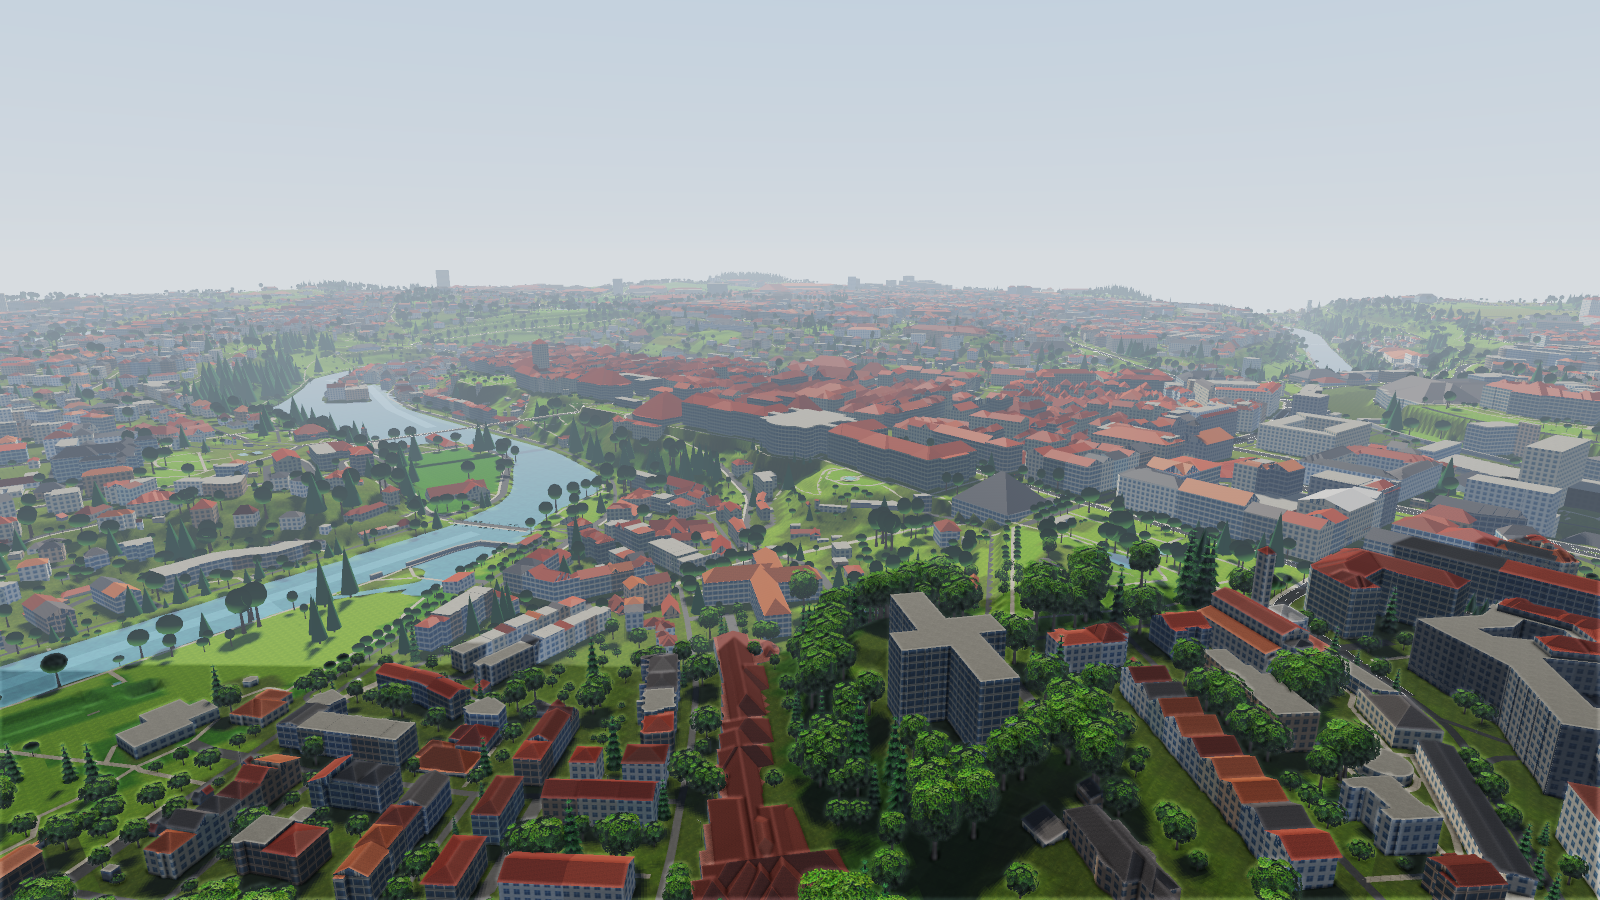
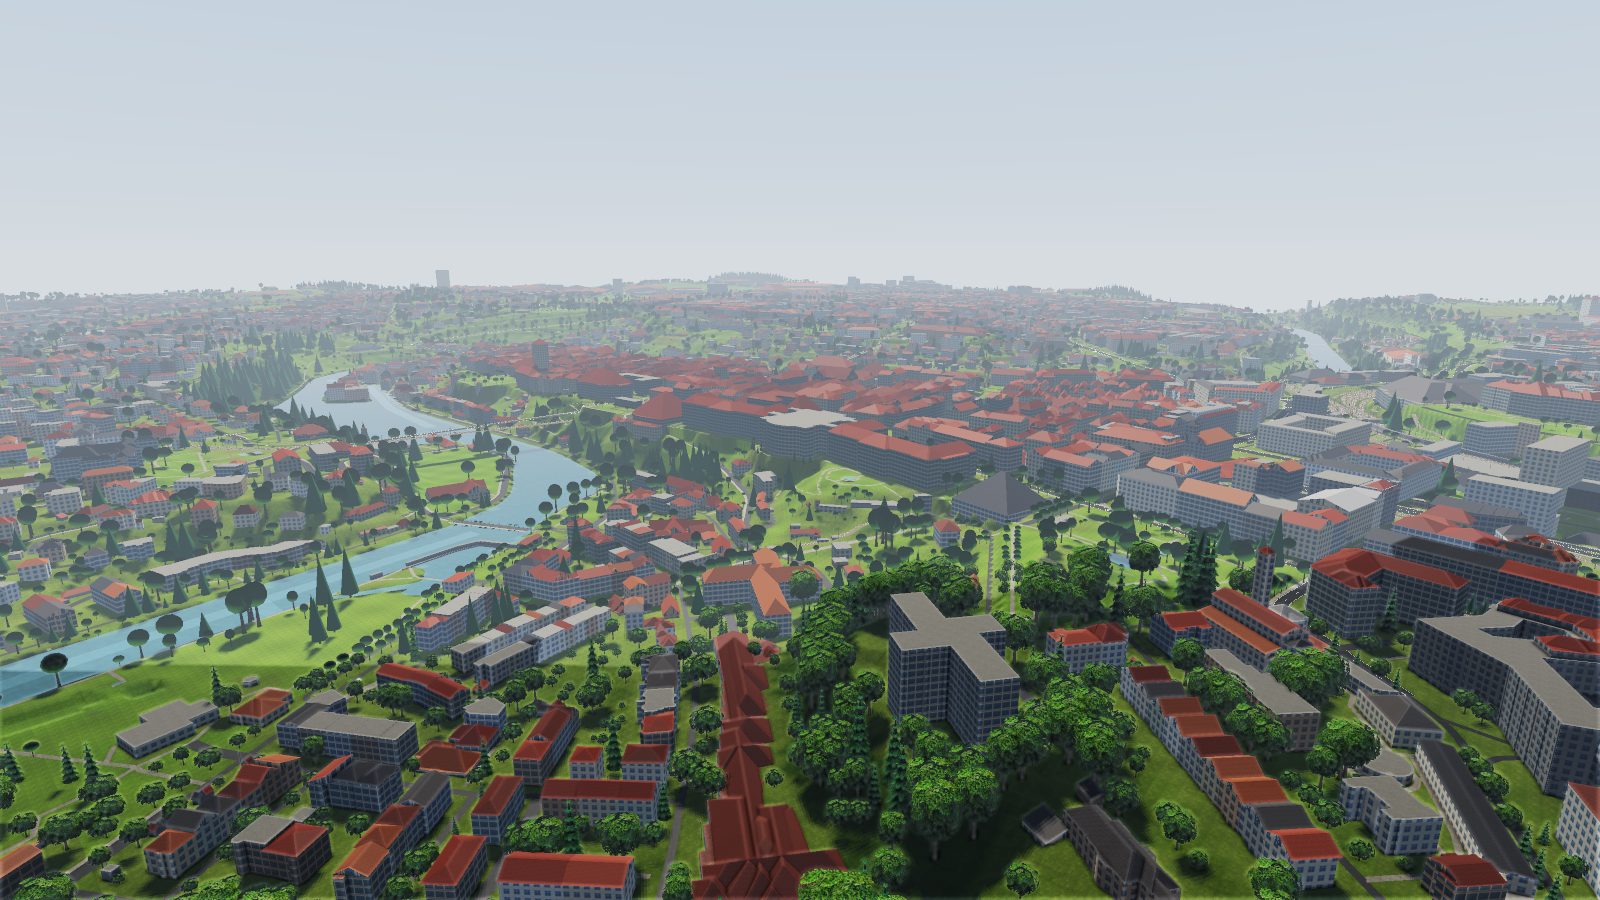
Docs: status, architecture, data sources, legal status, README; fresh preview screenshots
Claude-Session: https://claude.ai/code/session_01EMZxu1m7ufyRctSBYZZkQY

diff --git a/docs/STATUS.md b/docs/STATUS.md
@@ -1,36 +1,32 @@
 # Projektstatus
 
-## Phase 1 – Technisches Fundament
+Stand: Ende Phase 6 der Umsetzung. **Kein Unity war verfügbar** – siehe „Was heisst geprüft?“.
 
-| Punkt | Stand | Nachweis |
+## Phasen und Nachweise
+
+| Phase | Inhalt | Nachweis |
 |---|---|---|
-| Unity-Projektstruktur, asmdefs, Packages | angelegt | **in Unity nicht geöffnet** |
-| Architektur dokumentiert | ✔ | `docs/ARCHITECTURE.md` |
-| Schweizer Koordinatensystem (WGS84⇄LV95, Kachelraster, Floating-Origin-Mathematik) | ✔ implementiert, **getestet** | NUnit, 33 Tests grün (`dotnet test Tools/Core.Tests`) |
-| Geodatenquellen geprüft | teilweise | `docs/DATA_SOURCES.md` |
-| GIS-Import (swisstopo STAC → XYZ → Terrain-Kacheln; OSM → Strassen-Kacheln) | ✔ **real ausgeführt** für Bern 5×5 km | 25 Gelände- und 46 Strassenkacheln im Repo |
-| Realer Geländeausschnitt | ✔ | Test: Höhe am Bundesplatz im Bereich 530–552 m (Bern ≈ 540 m) |
-| Reales Strassennetz Pilotraum Bern | ✔ importiert | Test: Route Bundesplatz → Wankdorf 3283 m über >1000 Ways, kachelübergreifend |
-| Streaming-System | geschrieben | **in Unity nicht ausgeführt** |
-| Terrain-/Strassen-Erzeugung in Unity | geschrieben | **in Unity nicht ausgeführt** |
-| Spielersteuerung (zu Fuss) | geschrieben | **in Unity nicht ausgeführt** |
-| Fahrbares Polizeifahrzeug (WheelCollider, Blaulicht, Horn, Blinker, 3 Kameras) | geschrieben | **in Unity nicht ausgeführt**, Fahrwerte nicht abgestimmt |
-| Navigation mit Routenlinie | geschrieben | Routing getestet (Core); Darstellung nicht ausgeführt |
-| PlayMode-Smoke-Test | geschrieben | **nicht ausgeführt** |
+| 1 Fundament | LV95/Kachelraster/Floating Origin, GIS-Import, Bern-Pilot, fahrbares Auto | Core-Tests |
+| 2 Welt | OSM-Gebäude/Wasser/Landnutzung/Signale/POIs, swissSURFACE3D-Bäume, Tempolimits aus OSM-Tags + Orts-/Klassenregeln, Tile-Container, Prozedural-Meshing (Fassaden mit Fenstern/Läden/Balkonen/Gesimsen/Dachaufbauten, Laubbäume, Gewässer, Schienen) | Core-Tests, Software-Vorschau |
+| 3 Verkehr & Fussgänger | IDM-Verkehr mit Ampeln/Vortritt, Fussgänger auf Trottoirs/Fussgängerstreifen | Core-Tests |
+| 4 Recht & NPCs | Fedlex-Rechtssystem, Bussenkatalog aus OBV-Text, NLU + NPC-Psychologie (offline), Zuständigkeit aus Gemeindegrenzen | Core-Tests (139) |
+| 5 Spiellogik | Korps/Rang, Karriere & Konsequenzen (bis Entlassung), Funkzentrale/Einsätze (12 Typen), Polizeicomputer mit Protokoll, Verfolgung, Rapportbewertung, Speichern | Core-Tests |
+| 6 Unity-Laufzeit & UI | Streaming, Shader, Wetter/Tageszeit, Fahrzeug, Spieler, Kontrollen, Funk, Karte/Navigation, Menü, HUD, Fenster, Sprache/LLM, Editor-Setup | Kompilierung gegen UnityEngine (`Tools/RuntimeCheck`) – **nicht ausgeführt** |
 
-### Was heisst „nicht ausgeführt“?
-In der Entwicklungsumgebung stand kein Unity-Editor zur Verfügung. Der Unity-abhängige Code wurde nur per Roslyn auf Syntaxfehler geprüft (keine gefunden; fehlende UnityEngine-Typen konnten nicht aufgelöst werden). **Es kann Kompilierfehler gegen die echten Unity-APIs geben** und das Fahrverhalten ist ungetestet. Erster Schritt bei Unity-Zugang: Projekt öffnen, Kompilierfehler beheben, `Swiss Police ▸ Create Phase-1 Scene`, Play.
+## Was heisst geprüft?
+* **Core (ohne Unity): getestet.** `dotnet test Tools/Core.Tests` → 139 grün.
+* **Runtime (Unity-Code): kompiliert** gegen die echte UnityEngine-API (Unity-2021-Referenz; Unity 6 vorgesehen), aber **nie gestartet**. Verhalten, Fahrphysik, Performance (FPS/RAM) sind **unbekannt**.
+* **Shader** (`Resources/Shaders/*.shader`): nicht kompiliert. Fehlt ein Shader, fällt `MaterialLibrary` auf URP/Lit zurück (`UsingFallback`).
+* **Screenshots** sind Software-Renderer-Vorschauen (Tools/Preview) – **nicht Unity**; Beleuchtung/Post-Processing in Unity weichen ab.
+* **Daten:** nur der Pilotraum Bern (25 Kacheln, 6.7 MB) liegt vor. Landesweites Backen war hier nicht möglich (Overpass/Geofabrik nicht erreichbar, Datenmenge).
 
-### Bekannte Einschränkungen Phase 1
-* Platzhalter-Grafik (Primitive); kein Gebäude, keine Vegetation, kein Wasser, keine Strassenmarkierungen.
-* Strassen liegen 12–20 cm über dem Terrain (kein Terrain-Carving); Tunnel folgen der Oberfläche.
-* Pilotdaten basieren auf OSM-Ständen vom 2026-10-10; Tempolimits ohne Tag sind Klassen-Defaults.
-* Kein Rechtssystem, keine NPCs, keine Verkehrssimulation, kein Speichern (Phasen 2–6).
-* Startposition: nächster Strassenknoten zum Bundesplatz – **keine** reale Polizeistation (Koordinaten nicht verifiziert).
+## Bekannte Einschränkungen
+* Grafik ist prozedural (Low-Poly mit Texturen/Details), **nicht** auf dem Niveau handmodellierter Assets. Ein Austausch durch eigene Prefabs ist noch **nicht** implementiert (geplant: Prefab-Ersatzmechanismus je Fahrzeug-/Figurentyp).
+* Fahrzeugtypen: Kombi, Fliessheck, Limousine, SUV, Lieferwagen; keine LKW/Busse.
+* Kantonale Polizeigesetze nicht verifiziert (`docs/LEGAL_STATUS.md`).
+* Fussgänger reagieren nicht auf Verkehrsmeldungen der TrafficSimulation (nur Kollisionsprüfung).
+* Rapporte: Unfall wird gegen die verdeckte Wahrheit bewertet; übrige Einsatztypen nutzen eine vereinfachte Bewertung.
+* LLM-Anbindung nur formulierend; nicht getestet gegen die reale API.
 
-## Nächste Schritte (Phase 2 – Pilotraum Bern)
-1. Unity-Öffnung, Kompilierung und Fahrtest; Messung von FPS/Ladezeit/RAM mit 25 Kacheln.
-2. Gebäude Bern (OSM-Grundrisse + swissBUILDINGS3D prüfen), Wasser (Aare), Vegetation.
-3. Ampeln/Kreuzungen/Signalisation aus OSM; Verkehrssimulation (`TrafficManager`, `NPCVehicleAI`).
-4. Erste Verkehrskontrolle: Verstoss-Erkennung → Anhalten → NPC-Dialog (Offline-Modus) → `LegalSystemManager` mit verifizierten Rechtsquellen.
-5. Speichersystem-Grundgerüst.
+## Erster Schritt mit Unity
+Projekt öffnen → Kompilier-/Shaderfehler beheben → `Swiss Police Sim ▸ Projekt einrichten` → leere Szene → Play → PlayMode-Test `BootstrapSmokeTest` ausführen.

diff --git a/docs/ARCHITECTURE.md b/docs/ARCHITECTURE.md
@@ -1,6 +1,6 @@
 # Architektur – Swiss Police Simulator
 
-Ziel: die **gesamte Schweiz** (≈ 41 285 km²) im Massstab 1:1. Phase 1 liefert das technische Fundament und den Pilotraum Bern (5 × 5 km), die Architektur ist aber von Anfang an für das ganze Land ausgelegt.
+Ziel: die **gesamte Schweiz** (≈ 41 285 km²) im Massstab 1:1. Gebaut ist der Pilotraum Bern (5 × 5 km); die Architektur ist von Anfang an für das ganze Land ausgelegt.
 
 ## Engine & Version
 
@@ -29,22 +29,20 @@ Tools/
 * Unity-Achsen: x = Ost, z = Nord, y = Höhe ü. M. (**y wird nie verschoben**).
 * **Floating Origin** (`WorldFrame`, `WorldOrigin`, `FloatingOrigin`): Der Unity-Nullpunkt wird auf ein Vielfaches von 500 m verschoben, sobald das Ziel > 1500 m entfernt ist; dabei werden alle Root-Objekte der Szene um den Offset versetzt.
 
-## Kachelraster & Streaming
+## Kachelraster, Datenformate, Streaming
 
-* Weltzelle = **1 km × 1 km**, ausgerichtet am LV95-Kilometergitter. `TileId = (floor(E/1000), floor(N/1000))` – identisch zur Nummerierung der swisstopo-Kacheln (z. B. `2600-1199`).
-* Pro Kachel zwei Binärdateien in `StreamingAssets/SwissWorld/`: `terrain/X-Y.spt` (257² Höhenwerte, 16 Bit quantisiert, ~132 kB) und `roads/X-Y.spr` (Ways mit Knoten-IDs, Höhen, Attributen). Strassen werden an Kachelgrenzen geteilt; die Grenzknoten sind geteilt, das Netz bleibt verbunden.
-* `TileStreamingManager`: Radius um das Ziel, nächste Kacheln zuerst, Dateizugriff + Geometrieberechnung (Strassenmesh, Splat-Map) auf Worker-Threads, Erzeugung der Unity-Objekte auf dem Main-Thread (max. 1 Kachel/Frame), Unload mit Hysterese.
-* Terrain: ein `Terrain` pro Kachel, Nachbarn verknüpft, 3 Texturebenen (Gras/Fels/Schnee) nach Neigung und Höhe.
-* Strassen: Mesh-Band pro Kachel (3 Submeshes: Autobahn/Autostrasse, Hauptstrassen, übrige), alle 8 m abgetastet; **Brücken** behalten ihre gebackene, lineare Höhe (z. B. über die Aare), Tunnel folgen vorerst der Oberfläche.
-* Austauschpunkt: `TileStreamingManager.LoadTileData` ist die einzige Stelle, die Dateien liest. Ein Addressables-Provider ersetzt sie in einer späteren Phase (siehe Roadmap).
+* Weltzelle = **1 km × 1 km**, `TileId = (floor(E/1000), floor(N/1000))` (swisstopo-Nummerierung).
+* **Kachel-Container `.sptile`** mit Chunks: `TERR` (Gelände, SPT2: 5-cm-Stufen, Median-Edge-Detector-Vorhersage, Zig-Zag-Varints), `TERC` (Grobgelände), `ROAD`, `BLDG`, `WATR`/`WMSH`, `TREE`, `LAND`, `POIN`/`POI`, `RAIL`.
+* **Makro-Blöcke `.spm`** (8 km) für die Fernsicht, **Regionspakete `.sprg`** (Index + Direktzugriff), `admin.spj` (Kantons-/Gemeindegrenzen), `arterial.sprg` (Routing-Skelett).
+* `TileStreamer`: Ringe (Detail/Mittel/Fern) um den Fokus, Datei-/Meshberechnung (`TileMeshBuilder`) auf Worker-Threads mit Frame-Budget, Erzeugung der Unity-Meshes auf dem Main-Thread, Colliders nur nahe am Spieler, LRU-Entladen.
+* `TreeRenderer`: Instancing in 3 LODs (Laubkarten), `MacroRing`: Fernterrain aus Makro-Blöcken.
+* Fensterrender: eigene URP-Shader (`SPS/Lit`, `SPS/Terrain`, `SPS/Water`) mit Vertexfarbe (sRGB→linear), Schatten-/Tiefenpässe aus URP/Lit.
 
-## Mehrstufiges Detailmodell (Ziel)
+## Skalierung (Gelände ≈ 5.5 GB → Format-Optimierung, Routing nicht im RAM)
 
-| Stufe | Inhalt | Status |
-|---|---|---|
-| C – Landschaft | Gelände (swissALTI3D), Strassen, später Wald/Wasser | Phase 1: Gelände + Strassen |
-| B – Dörfer/Agglomeration | OSM-/swissBUILDINGS3D-Gebäude, Prozedural | Phase 3 |
-| A – Hochdetaillierte Städte | Handmodellierte Wahrzeichen, Ampeln, Signalisation | Phase 2 (Bern) / 7 |
+* Gelände: SPT2 + Grobchunk, geschätzt ≈ 2.5–3 GB landesweit (Details `docs/DATA_SOURCES.md`).
+* Routing: `HierarchicalRouter` – Skelett aus Hauptstrassen im RAM, Kachelgraphen lazy nur entlang der Route (LRU); Namens-/Abbiegeanweisungen aus `NavigationGuide`.
+* Verkehrsnetz (`TrafficNetwork`) wird auf einem 5×5-Kachel-Fenster um den Spieler aufgebaut und mitgeführt (`Rebase`).
 
 ## Navigation
 
@@ -55,6 +53,13 @@ Tools/
 * ≥ 60 FPS auf Mittelklasse-PC, 25 geladene Kacheln (5 × 5 km).
 * Pro Kachel Ziel < 40 MB RAM; Kachel-Erzeugung < 8 ms Main-Thread-Anteil (heute **nicht gemessen** – Messung steht für die erste Unity-Ausführung an).
 
-## Rechtliches / Polizeilogik (ab Phase 2/5)
+## Spielschichten (Core, ohne Unity)
 
-Noch nicht implementiert. Vorgabe: Jede Rechtsregel wird mit Status **verifiziert / vereinfachte Spielregel / unverifizierte Annahme** und Quellenangabe (fedlex.admin.ch, kantonale Polizeigesetze) im Datensatz geführt; keine erfundenen Artikel.
+`Legal` (Normen mit Verifikationsstatus, Regelwerk `LegalSystem`, `ObvCatalog` aus Gesetzestext) · `Npc` (NLU, `NpcMind`, `Citizen`) · `Game` (`Encounter`, `Career`, `Dispatch`, `Reports`, `SaveGame`, `Pursuit`, `GameClock`) · `Police` (Korps, Zuständigkeit, `PoliceComputer`) · `Traffic` (IDM, Ampeln, Fussgänger) · `Roads` (Graph, Router, Navigation) · `Meshing`/`Textures` (prozedurale Geometrie, in Unity wie im Software-Renderer identisch genutzt).
+
+## Unity-Laufzeit (`Runtime/`)
+
+`GameBootstrap` baut die Szene programmatisch (kein handgebautes Scene-Asset nötig) → `GameSession` (Uhr, Korps, Karriere, Computer) mit Controllern für Einsätze, Kontrollen/Radar, Begegnungen, Verfolgung; UI per IMGUI (`Gui`, `Hud`, `Windows`, `UiRoot`); Eingabe über die klassische Input-Klasse (kein Input-System-Package). Alles Unity-Abhängige ist von `Core` getrennt.
+
+## Rechtliches
+Siehe `docs/LEGAL_STATUS.md`.

diff --git a/docs/DATA_SOURCES.md b/docs/DATA_SOURCES.md
@@ -7,7 +7,7 @@ Stand der Prüfung: 2026-10-10. Was **tatsächlich geprüft** wurde, ist markier
 | **swissALTI3D** (swisstopo) | Gelände | ✔ STAC-API `data.geo.admin.ch/api/stac/v0.9` erreichbar; 1-km-Kacheln, 0.5 m und 2 m, GeoTIFF und ASCII-XYZ, LV95/LN02; Abdeckung ganze Schweiz + FL. Genutzt: 2 m XYZ (ca. 1 MB/Kachel), Ausgabe 2019. | Die STAC-Collection weist `license: proprietary` aus. swisstopo gibt seine Geodaten als Open Government Data frei (Quellenangabe nötig). **Wortlaut der Nutzungsbedingungen in dieser Sitzung nicht abrufbar (URL lieferte 404) → vor Release prüfen.** Quellenangabe: „swissALTI3D © swisstopo“. |
 | **OpenStreetMap** | Strassennetz, Attribute | ✔ OSM-API 0.6 (`/map`) erreichbar und verwendet (25 Anfragen mit Cache, 1 s Pause). Overpass/Geofabrik waren aus der Entwicklungs-Sandbox **nicht** erreichbar. | ODbL: Quellenangabe „© OpenStreetMap contributors“, Share-Alike für abgeleitete *Datenbanken*. Die gebackenen `.spr`-Dateien sind eine abgeleitete Datenbank → bei Weitergabe unter ODbL stellen. Für grosse Gebiete **nicht** die OSM-API, sondern Overpass-Instanz/Planet-Extrakt (Geofabrik) verwenden. |
 | **swissTLM3D** | genauere Strassen/Brücken/Tunnel, Gewässer, Wald | ✔ STAC-Collection `ch.swisstopo.swisstlm3d` vorhanden (Ausgabe 2020-03 gesehen); Dateigrösse/Format für Landesumfang noch nicht geprüft. | Wie swisstopo OGD, siehe oben. Vorgesehen für Phase 3. |
-| **swissBUILDINGS3D** | Gebäude (3D) | nicht geprüft | Phase 3 – Verfügbarkeit/Lizenz/Grösse noch zu prüfen. |
+| **swissBUILDINGS3D** | Gebäude (3D) | nicht verwendet | Gebäude stammen aus OSM-Grundrissen (Höhe aus swissSURFACE3D abzüglich Gelände bzw. `building:levels`). |
 | **swissIMAGE / Swiss Map Raster** | Texturen, Kartenansicht | nicht geprüft | Phase 3/4 – Lizenz und Texturgrösse für Echtzeit noch zu prüfen. |
 | Kantonale Daten (Polizeistationen, Signalisation) | Stationen, Tempolimits | nicht geprüft | Phase 4 – je Kanton unterschiedlich. |
 
@@ -25,6 +25,23 @@ dotnet run --project Tools/SwissWorldBaker -c Release -- --lat 46.94658 --lon 7.
 
 erzeugt. Für grössere Datenmengen Git LFS oder externen Download verwenden.
 
-## Hochrechnung auf die ganze Schweiz (Schätzung, nicht gemessen)
+## Hochrechnung auf die ganze Schweiz (Schätzung aus den gemessenen Pilotdaten)
 
-≈ 41 300 Kacheln. Bei ~132 kB (Gelände) → ca. 5.5 GB nur für Gelände auf Stufe 257². Gebäude, Texturen und Strassen kommen hinzu. Konsequenz: Datenhaltung ausserhalb von Git, Addressables-Gruppen je Region, niedrigere Terrainauflösung ausserhalb der Detailgebiete.
+Der Pilotraum (25 Kacheln, Bern) belegt **6.7 MB** inkl. Gebäude, Wasser, Bäume, Strassen und Fernterrain-Blöcke (≈ 270 kB je Kachel, davon Gelände ≈ 60–70 kB statt früher 132 kB).
+Terrain-Format SPT2 (5-cm-Stufen, Median-Edge-Detector-Vorhersage, Zig-Zag-Varints) und ein Grobraster-Chunk (TERC) ersetzen die frühere 16-Bit-Rohspeicherung.
+
+| Grösse | Schätzung (≈ 41 300 Kacheln) |
+|---|---|
+| Gelände | ≈ 2.5–3 GB (statt 5.5 GB) |
+| Gelände + Gebäude + Strassen + Wasser (urban hoch, alpin niedrig) | ≈ 8–12 GB gesamt, **geschätzt, nicht gemessen** |
+| Fernterrain (8-km-Blöcke `.spm`) | < 150 MB |
+| Routing-Skelett (`arterial.sprg`) | < 100 MB |
+
+**Routing nicht mehr komplett im RAM:** `HierarchicalRouter` hält nur ein Skelett (Autobahnen/Hauptstrassen, `arterial.sprg`) und lädt Kachelgraphen nur entlang der Route nach (LRU).
+**Datenhaltung:** Kacheln in Regionspaketen `.sprg` (ein Index, Direktzugriff), nicht je Datei in Git. Für das Landesbacken: Overpass-/Geofabrik-Extrakt statt OSM-API (siehe unten, in der Entwicklungsumgebung nicht erreichbar).
+
+## Landesweit backen (vom Nutzer auszuführen)
+```
+dotnet run --project Tools/SwissWorldBaker -c Release -- --help
+```
+Modi: Kachelbau je Region, Makro-Blöcke, Arterial-Skelett, Regionspakete, Verwaltungsgrenzen (`admin.spj`). swisstopo-Daten (swissALTI3D, swissSURFACE3D, swissBOUNDARIES3D) sind über die STAC-API erreichbar; Lizenzbedingungen vor Veröffentlichung nochmals prüfen.

diff --git a/README.md b/README.md
@@ -1,19 +1,26 @@
 # Swiss Police Simulator – Switzerland Open World
 
-Realistischer Polizeisimulator in Unity, Endziel: die **gesamte Schweiz** im Massstab 1:1 aus echten Geodaten (swisstopo, OpenStreetMap).
+Realistische Polizeisimulation (Unity 6, URP, Windows) auf echten Schweizer Geodaten (swisstopo, OpenStreetMap), mit Fedlex-verifiziertem Recht, 26 Kantonen/Zuständigkeiten, Verkehrssimulation, sprechenden NPCs, Polizeicomputer, Funkzentrale, Karriere/Konsequenzen und Speicherstand.
 
-**Stand:** Phase 1 (technisches Fundament, Pilotraum Bern). Details und ehrlicher Teststatus: [`docs/STATUS.md`](docs/STATUS.md). Architektur: [`docs/ARCHITECTURE.md`](docs/ARCHITECTURE.md). Datenquellen/Lizenzen: [`docs/DATA_SOURCES.md`](docs/DATA_SOURCES.md).
+**Spielbarer Pilotraum:** Region Bern (25 km²). Das ganze Land ist technisch vorbereitet (Format, Streaming, hierarchisches Routing, Backer), muss aber noch gebacken werden (siehe `docs/DATA_SOURCES.md`).
 
-## Starten (Unity)
-1. Unity Hub → Projekt öffnen (Unity 6 LTS, 6000.0.x). Kompilierfehler melden/beheben (der Code wurde noch nie in Unity kompiliert).
-2. *Project Settings ▸ Player ▸ Active Input Handling*: **Input System Package (New)** oder *Both*.
-3. Menü **Swiss Police ▸ Create Phase-1 Scene** (legt Szene + URP-Asset an), Play drücken.
-4. Steuerung: WASD, Leertaste Handbremse, F ein-/aussteigen, C Kamera (Verfolger/Cockpit/Haube), L Licht, B Blaulicht, Q Horn, Z/X/H Blinker/Warnblinker, N Navi-Ziel, M Route löschen, Esc Maus freigeben.
+> **Ehrlicher Status:** In der Entwicklungsumgebung stand **kein Unity** zur Verfügung. Logik (Core) ist mit 139 NUnit-Tests ausserhalb Unity getestet; der Unity-Code wurde gegen die echte UnityEngine-API kompiliert (`Tools/RuntimeCheck`), aber **nie in Unity ausgeführt**. Shader sind nicht kompiliert. Screenshots in `docs/screenshots` stammen vom **Software-Renderer** (nicht Unity). Details: [`docs/STATUS.md`](docs/STATUS.md).
 
-Die Pilotdaten (Bern 5×5 km) liegen bereits unter `Assets/StreamingAssets/SwissWorld`. Neue Gebiete: **Swiss Police ▸ Import Geodata…** oder
-`dotnet run --project Tools/SwissWorldBaker -c Release -- --lat <breite> --lon <länge> --radius <n> --out Assets/StreamingAssets/SwissWorld`.
+## Starten
+1. Unity 6 (6000.0.x) → Projektordner öffnen. Beim ersten Öffnen richtet `Swiss Police Sim ▸ Projekt einrichten` Linear-Farbraum, URP-Asset und SSAO ein.
+2. Leere Szene öffnen und **Play** drücken – `GameBootstrap` baut die komplette Szene zur Laufzeit auf (Menü → Korps wählen → Neues Spiel).
+3. Steuerung: `F1` im Spiel.
+
+Wichtigste Tasten: WASD · Maus · F Fahrzeug · E ansprechen · G anhalten · R Radarpistole · B Blaulicht · Q Sirene · Tab Computer · M Karte/Navi · P Rapport · N Notizbuch · K Laufbahn · F5/F9 Schnellspeichern/-laden · Esc Pause.
+
+## Optionales
+* **KI-Dialoge:** Umgebungsvariable `ANTHROPIC_API_KEY` setzen und im Pausenmenü aktivieren. Das Modell formuliert nur die Antwort um; Aktionen und Zustand bleiben beim Offline-NPC-Modell. Der Schlüssel wird nie gespeichert.
+* **Sprache:** Windows-Sprachausgabe/-erkennung (System.Speech via PowerShell), je nach installierten Sprachpaketen.
 
 ## Tests (ohne Unity)
 ```
-dotnet test Tools/Core.Tests
+dotnet test Tools/Core.Tests            # 139 Tests
+dotnet build Tools/RuntimeCheck         # Unity-Code gegen echte UnityEngine-API
+dotnet run --project Tools/Preview -c Release -- --scene drive --out x.png   # Software-Vorschau
 ```
+Dokumente: [`ARCHITECTURE`](docs/ARCHITECTURE.md) · [`DATA_SOURCES`](docs/DATA_SOURCES.md) · [`LEGAL_STATUS`](docs/LEGAL_STATUS.md) · [`STATUS`](docs/STATUS.md)

diff --git a/docs/LEGAL_STATUS.md b/docs/LEGAL_STATUS.md
@@ -1,0 +1,20 @@
+# Rechtsstatus
+
+Jede Rechtsregel des Spiels trägt einen **Verifikationsstatus** (`Verification` in `Core/Legal/Norms.cs`), der dem Spieler bei jeder Beurteilung angezeigt wird. Erfundene Artikel gibt es nicht: ein Test prüft, dass jede zitierte Norm im lokal abgelegten Fedlex-Text tatsächlich existiert.
+
+| Status | Anzahl Normen | Bedeutung |
+|---|---|---|
+| `FedlexVerified` | 40 | Artikelnummer und Inhalt gegen den konsolidierten Bundestext geprüft (Test `LegalTests`) |
+| `CourtPractice` | 1 | Bundesgerichtspraxis, im Spiel vereinfacht |
+| `GameRule` | 2 | Spielabstraktion ohne Anspruch auf juristische Genauigkeit |
+| `CantonalNotVerified` | 1 | Kantonales Recht – **nicht** in der Fedlex-Datenbank, Details ungeprüft |
+
+## Quellen (Fedlex, Stand 2026-10-10, SHA-256 in `docs/law/index.json`)
+SR 101 BV · 311.0 StGB · 312.0 StPO · 314.1 OBG · 314.11 OBV (Bussenliste wird **zur Laufzeit aus dem Gesetzestext geparst**) · 364 ZAG (polizeilicher Zwang) · 741.01 SVG · 741.013 SKV · 741.11 VRV · 741.13 Alkoholgrenzwerte-Verordnung · 741.21 SSV · 741.51 VZV.
+
+Die Texte liegen unter `Assets/StreamingAssets/Law` (Kopie von `docs/law`) und werden vom Spiel geladen.
+
+## Nicht abgedeckt / offen
+* **Kantonale Polizeigesetze** (26 Stück): nur Struktur und Zuständigkeitslogik, Inhalte unverifiziert → vor Release durch eine juristisch kundige Person prüfen.
+* Zuständigkeit Gemeinde-/Kantonspolizei und Konkordate: Spielregel, aus echten Gemeindegrenzen abgeleitet, rechtlich vereinfacht.
+* Das Spiel ist **keine Rechtsberatung**.
